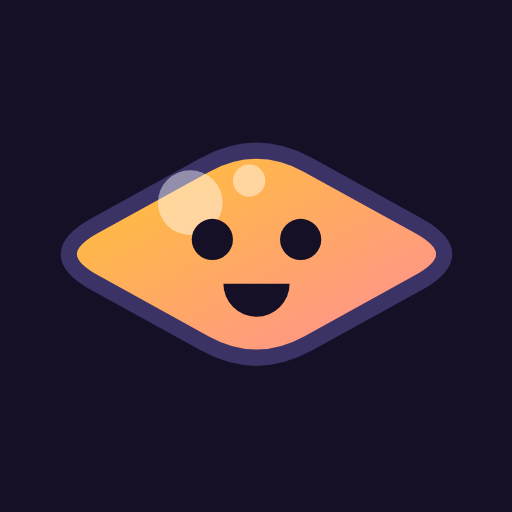
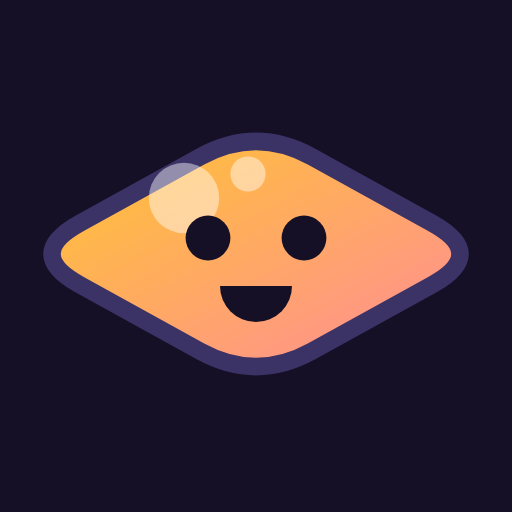
Beside the figure or not at all, and a drawing that fills its tile (#110)

diff --git a/app/kit/offer/OfferCard.tsx b/app/kit/offer/OfferCard.tsx
@@ -158,14 +158,12 @@ export function OfferCard() {
           bottom={
             <>
               {/* The one star of the screen, typed where it stands. */}
-              <span className="block">
-                {/* One box and one ring around the "$" and the figure together: the ring is the box's, drawn when the
-                    figure inside has the focus, so the field never reads as a box inside a box (the founder,
-                    20 Sep 2026, on the amount after the name was fixed). */}
-                <span className="flex flex-wrap items-baseline gap-x-[var(--space-sm)] gap-y-[var(--space-xs)]">
-              {/* The figure, and beside it what it is worth in the currency this account reads in (D140): under it
-                    the line made the card taller, which is what the founder would not have. Nothing at all when the
-                    account reads in dollars, or when no rate answered. */}
+              {/* One box and one ring around the "$" and the figure together: the ring is the box's, drawn when the
+                  figure inside has the focus, so the field never reads as a box inside a box (the founder, 20 Sep
+                  2026, on the amount after the name was fixed). Beside it, what the figure is worth in the currency
+                  this account reads in (D140, D141): one row that never wraps, and nothing at all below 480, where
+                  a sentence carrying its rate's own day cannot fit beside a 39 pixel figure. */}
+              <span className="flex items-baseline gap-x-[var(--space-sm)]">
                 <span className={`${CARD_AMOUNT} on-paper-field inline-flex min-h-[var(--tap-target)] items-center focus-within:outline-2 focus-within:outline-offset-2 focus-within:outline-[var(--accent-text)]`}>
                   {W.dollar}
                   <input
@@ -179,8 +177,13 @@ export function OfferCard() {
                     className="min-h-[var(--tap-target)] min-w-[var(--tap-target)] bg-transparent tabular-nums outline-none"
                   />
                 </span>
-              </span>
-                {!amountRefusal && units !== undefined && worth ? <span className={`${HELP} shrink`}>{worth}</span> : null}
+                {/* Beside the figure, or not at all (the founder, 21 Sep 2026). A converted figure carries its rate's
+                    own day, which makes the sentence 230 pixels wide: beside a 39 pixel figure it fits from 480 and
+                    would wrap under it below, so below 480 it is not drawn at all. Where the money moves, the sheet
+                    says the same thing in full. */}
+                {!amountRefusal && units !== undefined && worth ? (
+                  <span className={`${HELP} hidden whitespace-nowrap [@media(min-width:480px)]:inline`}>{worth}</span>
+                ) : null}
               </span>
               {amountRefusal ? <span className={`block ${HELP} text-[var(--on-surface)]`}>{amountRefusal}</span> : null}
 

diff --git a/scripts/make-icon.ts b/scripts/make-icon.ts
@@ -6,8 +6,8 @@ import { COLOURS } from "../src/design-tokens";
 
 /**
  * The app's icon and the gift's drawing, written once into files (the art direction brief of 17 Sep 2026, section 7
- * bis). The icon is the head character, the diamond, on the ink tile a phone rounds itself (D135), filling almost
- * all of it (D138: at three quarters the tile was mostly empty); the gift's own drawing stays the gift, because what
+ * bis). The icon is the head character, the diamond, on the ink tile a phone rounds itself (D135), filling the whole
+ * width of it (D141, after 0.74 and 0.92 both read as a small drawing in a large square); the gift's own drawing stays the gift, because what
  * it is used for is the picture under a gift's link. It is the third place a person meets Viky, after the link
  * preview and the morning message, and the first they see every day on their home screen.
  *
@@ -33,6 +33,14 @@ function icoAround(png: Buffer, size: number): Buffer {
   return Buffer.concat([header, entry, png]);
 }
 
+/**
+ * How much of the tile the drawing takes (D141). All of it, except on the icon a phone is allowed to crop: a
+ * maskable icon may be cut to a circle, and the meaning has to sit inside that circle: a shape this wide at 0.8 of
+ * the square would have its two points on the circle's edge, so that one is drawn at 0.7 and every other at 1.
+ */
+const FILLS: Readonly<Record<string, number>> = { "public/icons/android-chrome-192x192.png": 0.7 };
+const FULL = 1;
+
 const SIZES = [
   { file: "public/icons/icon-512x512.png", size: 512 },
   { file: "public/icons/android-chrome-192x192.png", size: 192 },
@@ -55,7 +63,7 @@ async function main() {
       const page = await browser.newPage({ viewport: { width: size, height: size }, deviceScaleFactor: 1 });
       await page.setContent(
         `<!doctype html><body style="margin:0;width:${size}px;height:${size}px;background:${COLOURS.dark.background};display:flex;align-items:center;justify-content:center">` +
-          `<div style="width:${Math.round(size * 0.92)}px">${svg}</div></body>`,
+          `<div style="width:${Math.round(size * (FILLS[file] ?? FULL))}px">${svg}</div></body>`,
       );
       const picture = await page.screenshot({ clip: { x: 0, y: 0, width: size, height: size } });
       await page.close();

diff --git a/docs/DECISIONS.md b/docs/DECISIONS.md
@@ -3857,3 +3857,23 @@ behind an account cannot be photographed any other way.
   were white while the app is ink, so the splash flashed white and then the page. What an installed app draws is
   baked into it when the phone installs it, so the icon a person already has changes when they install it again;
   no code here can reach into that.
+
+## D141, 21 Sep 2026: beside or not at all, and a drawing that fills its tile
+
+- **The conversion is one row with the figure, and that row never wraps.** Put under the figure it made the card
+  taller; put beside it in a wrapping row it fell under the figure again on a phone, which is what the founder saw.
+  A converted figure carries its rate's own day (decision 1 of 17 Sep), which makes the sentence about 230 pixels
+  wide: beside a 39 pixel figure it fits from 480 and cannot below, so below 480 it is not drawn at all. Measured
+  after: at 390 and 430 nothing and the card at 483; at 480 and 1440 beside the figure and the card still 483.
+- **The icon fills its tile.** The drawing takes the whole width of the square now, after 0.74 and 0.92 both read
+  as a small drawing in a large tile. The one exception is the icon a phone is allowed to crop: a maskable icon may
+  be cut to a circle, and a shape this wide at 0.8 would have its two points on that circle's edge, so it is drawn
+  at 0.7 there and at 1 everywhere else.
+- **What a phone already installed does not change by itself.** The splash the founder photographed is the WebAPK's
+  own, baked when the phone installed it: the old gift on white. The manifest now says ink (D140), and Chrome
+  refreshes a WebAPK on its own schedule; installing it again is the only immediate way. This is written here
+  because it will be asked again.
+- **Why there is no install offer inside the installed app**: there is nothing to install there, and a page cannot
+  honestly say more (D138). In a browser tab it is in the footer of the landing page and on Me: measured on
+  production, the landing page's controls end with "Install Viky on this phone". The way to tell which one you are
+  in is the address bar.
